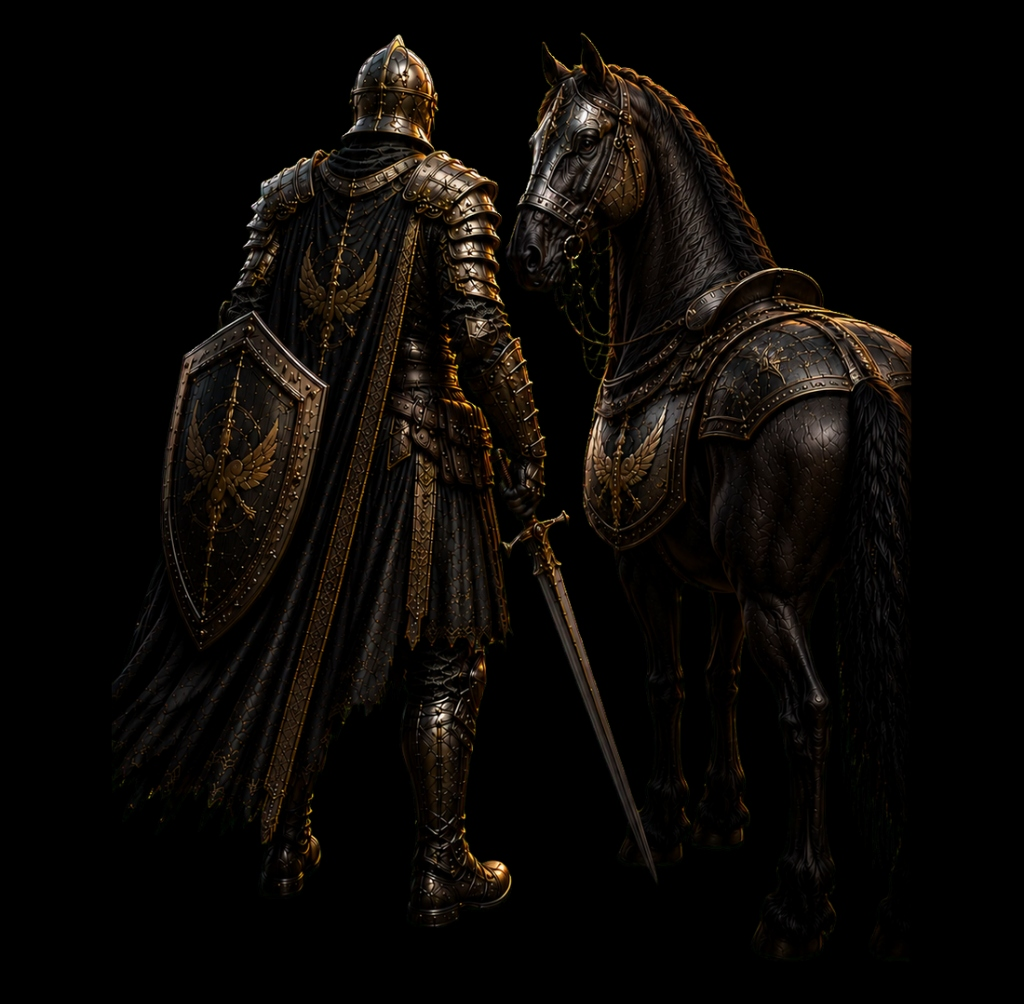
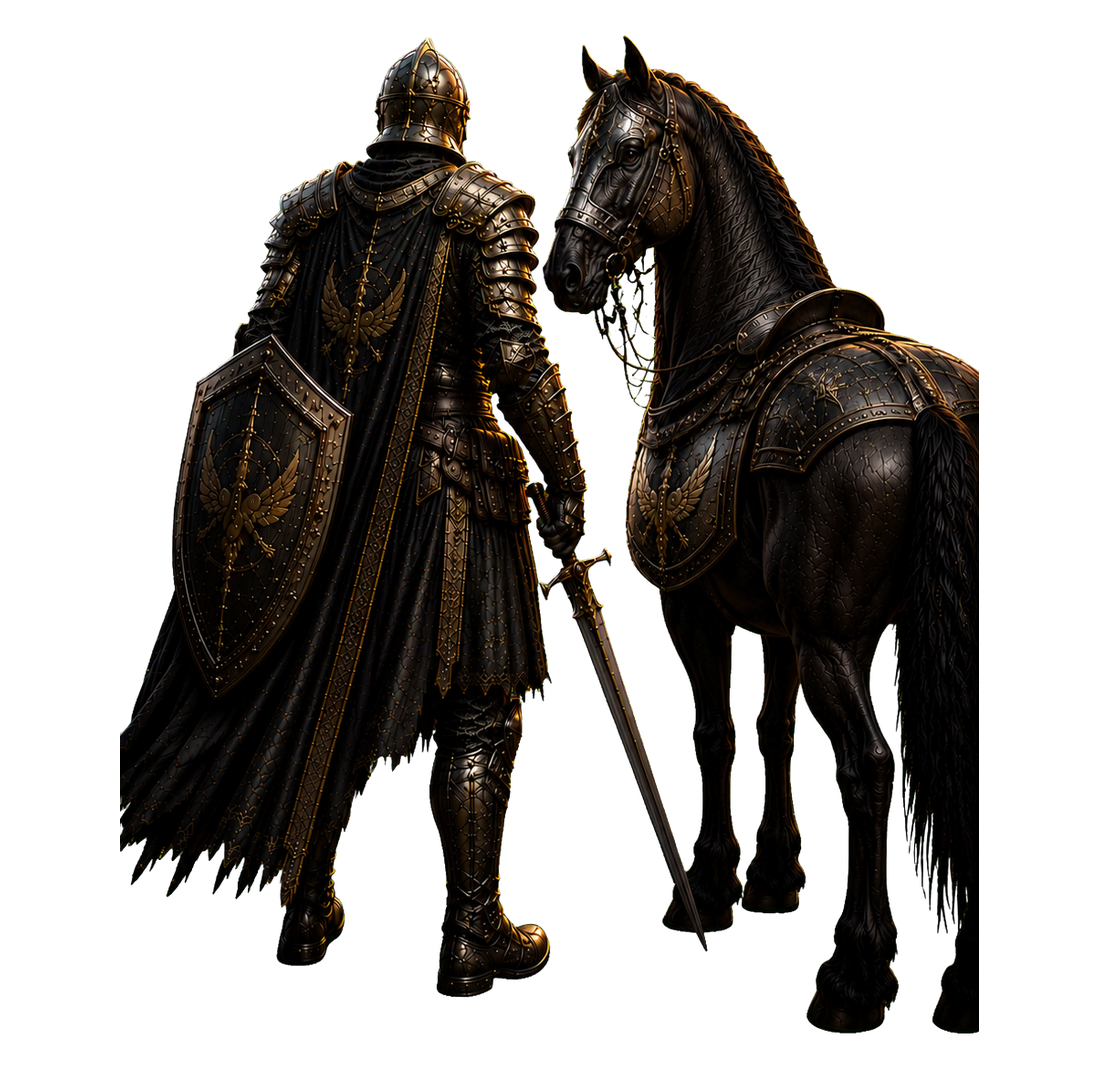
Fix stage images transparency and align bottom navigation bar (build 1.0.0+2)

diff --git a/lib/goals_page/goals_page_widget.dart b/lib/goals_page/goals_page_widget.dart
@@ -11,9 +11,10 @@ import 'package:cloud_firestore/cloud_firestore.dart';
 import 'package:flutter/material.dart';
 import 'package:google_fonts/google_fonts.dart';
 import 'package:provider/provider.dart';
-import 'goals_page_model.dart';
-import '/backend/habit_logger.dart';
 import '/backend/localization_manager.dart';
+import '/backend/habit_logger.dart';
+import '/components/pain_to_gain_bottom_nav_widget.dart';
+import 'goals_page_model.dart';
 export 'goals_page_model.dart';
 
 class GoalsPageWidget extends StatefulWidget {
@@ -242,171 +243,11 @@ class _GoalsPageWidgetState extends State<GoalsPageWidget> {
                 // Bottom Navigation
                 Align(
                   alignment: AlignmentDirectional(0.0, 1.0),
-                  child: Padding(
-                    padding: EdgeInsetsDirectional.fromSTEB(6.0, 4.0, 6.0, 0.0),
-                    child: Container(
-                      width: double.infinity,
-                      height: 70.0,
-                      decoration: BoxDecoration(),
-                      child: Container(
-                        width: double.infinity,
-                        height: double.infinity,
-                        child: Stack(
-                          children: [
-                            ClipRRect(
-                              borderRadius: BorderRadius.circular(8.0),
-                              child: Image.asset(
-                                'assets/images/paintogain_nav_1_clean.png',
-                                width: double.infinity,
-                                height: double.infinity,
-                                fit: BoxFit.fill,
-                              ),
-                            ),
-                            Positioned.fill(
-                              child: Row(
-                                mainAxisSize: MainAxisSize.max,
-                                children: [
-                                  Expanded(
-                                    child: InkWell(
-                                      splashColor: Colors.transparent,
-                                      highlightColor: Colors.transparent,
-                                      onTap: () async {
-                                        context.goNamed(HomePageWidget.routeName);
-                                      },
-                                      child: Column(
-                                        mainAxisAlignment: MainAxisAlignment.end,
-                                        children: [
-                                          Text(
-                                            LocalizationManager.instance.t('nav_home'),
-                                            textAlign: TextAlign.center,
-                                            maxLines: 1,
-                                            overflow: TextOverflow.ellipsis,
-                                            style: GoogleFonts.inter(
-                                              color: Color(0x88F2EFE9),
-                                              fontSize: 10.0,
-                                              fontWeight: FontWeight.bold,
-                                              letterSpacing: 0.5,
-                                            ),
-                                          ),
-                                          SizedBox(height: 10.0),
-                                        ],
-                                      ),
-                                    ),
-                                  ),
-                                  Expanded(
-                                    child: InkWell(
-                                      splashColor: Colors.transparent,
-                                      highlightColor: Colors.transparent,
-                                      onTap: () async {
-                                        context.goNamed(GoalsPageWidget.routeName);
-                                      },
-                                      child: Column(
-                                        mainAxisAlignment: MainAxisAlignment.end,
-                                        children: [
-                                          Text(
-                                            LocalizationManager.instance.t('nav_goals'),
-                                            textAlign: TextAlign.center,
-                                            maxLines: 1,
-                                            overflow: TextOverflow.ellipsis,
-                                            style: GoogleFonts.inter(
-                                              color: Color(0xFFA68255),
-                                              fontSize: 10.0,
-                                              fontWeight: FontWeight.bold,
-                                              letterSpacing: 0.5,
-                                            ),
-                                          ),
-                                          SizedBox(height: 10.0),
-                                        ],
-                                      ),
-                                    ),
-                                  ),
-                                  Expanded(
-                                    child: InkWell(
-                                      splashColor: Colors.transparent,
-                                      highlightColor: Colors.transparent,
-                                      onTap: () async {
-                                        context.goNamed(StatisticsPageWidget.routeName);
-                                      },
-                                      child: Column(
-                                        mainAxisAlignment: MainAxisAlignment.end,
-                                        children: [
-                                          Text(
-                                            LocalizationManager.instance.t('nav_stats'),
-                                            textAlign: TextAlign.center,
-                                            maxLines: 1,
-                                            overflow: TextOverflow.ellipsis,
-                                            style: GoogleFonts.inter(
-                                              color: Color(0x88F2EFE9),
-                                              fontSize: 10.0,
-                                              fontWeight: FontWeight.bold,
-                                              letterSpacing: 0.5,
-                                            ),
-                                          ),
-                                          SizedBox(height: 10.0),
-                                        ],
-                                      ),
-                                    ),
-                                  ),
-                                  Expanded(
-                                    child: InkWell(
-                                      splashColor: Colors.transparent,
-                                      highlightColor: Colors.transparent,
-                                      onTap: () async {
-                                        context.pushNamed(JourneyPageWidget.routeName);
-                                      },
-                                      child: Column(
-                                        mainAxisAlignment: MainAxisAlignment.end,
-                                        children: [
-                                          Text(
-                                            LocalizationManager.instance.t('nav_journey'),
-                                            textAlign: TextAlign.center,
-                                            maxLines: 1,
-                                            overflow: TextOverflow.ellipsis,
-                                            style: GoogleFonts.inter(
-                                              color: Color(0x88F2EFE9),
-                                              fontSize: 10.0,
-                                              fontWeight: FontWeight.bold,
-                                              letterSpacing: 0.5,
-                                            ),
-                                          ),
-                                          SizedBox(height: 10.0),
-                                        ],
-                                      ),
-                                    ),
-                                  ),
-                                  Expanded(
-                                    child: InkWell(
-                                      splashColor: Colors.transparent,
-                                      highlightColor: Colors.transparent,
-                                      onTap: () async {
-                                        context.goNamed(SettingsPageWidget.routeName);
-                                      },
-                                      child: Column(
-                                        mainAxisAlignment: MainAxisAlignment.end,
-                                        children: [
-                                          Text(
-                                            LocalizationManager.instance.t('nav_settings'),
-                                            textAlign: TextAlign.center,
-                                            maxLines: 1,
-                                            overflow: TextOverflow.ellipsis,
-                                            style: GoogleFonts.inter(
-                                              color: Color(0x88F2EFE9),
-                                              fontSize: 10.0,
-                                              fontWeight: FontWeight.bold,
-                                              letterSpacing: 0.5,
-                                            ),
-                                          ),
-                                          SizedBox(height: 10.0),
-                                        ],
-                                      ),
-                                    ),
-                                  ),
-                                ],
-                              ),
-                            ),
-                          ],
-                        ),
-                      ),
+                  child: wrapWithModel(
+                    model: _model.painToGainBottomNavModel,
+                    updateCallback: () => safeSetState(() {}),
+                    child: PainToGainBottomNavWidget(
+                      activeTab: 1,
                     ),
                   ),
                 ),

diff --git a/lib/components/pain_to_gain_bottom_nav_widget.dart b/lib/components/pain_to_gain_bottom_nav_widget.dart
@@ -66,7 +66,7 @@ class _PainToGainBottomNavWidgetState extends State<PainToGainBottomNavWidget> {
                     'assets/images/paintogain_nav_0_clean.png',
                     width: double.infinity,
                     height: double.infinity,
-                    fit: BoxFit.cover,
+                    fit: BoxFit.fill,
                   ),
                 ),
               if (widget!.activeTab == 1)
@@ -76,7 +76,7 @@ class _PainToGainBottomNavWidgetState extends State<PainToGainBottomNavWidget> {
                     'assets/images/paintogain_nav_1_clean.png',
                     width: double.infinity,
                     height: double.infinity,
-                    fit: BoxFit.cover,
+                    fit: BoxFit.fill,
                   ),
                 ),
               if (widget!.activeTab == 2)
@@ -86,7 +86,7 @@ class _PainToGainBottomNavWidgetState extends State<PainToGainBottomNavWidget> {
                     'assets/images/paintogain_nav_2_clean.png',
                     width: double.infinity,
                     height: double.infinity,
-                    fit: BoxFit.cover,
+                    fit: BoxFit.fill,
                   ),
                 ),
               if (widget!.activeTab == 3)
@@ -96,7 +96,7 @@ class _PainToGainBottomNavWidgetState extends State<PainToGainBottomNavWidget> {
                     'assets/images/paintogain_nav_3_clean.png',
                     width: double.infinity,
                     height: double.infinity,
-                    fit: BoxFit.cover,
+                    fit: BoxFit.fill,
                   ),
                 ),
               if (widget!.activeTab == 4)
@@ -106,7 +106,7 @@ class _PainToGainBottomNavWidgetState extends State<PainToGainBottomNavWidget> {
                     'assets/images/paintogain_nav_4_clean.png',
                     width: double.infinity,
                     height: double.infinity,
-                    fit: BoxFit.cover,
+                    fit: BoxFit.fill,
                   ),
                 ),
               // Full-height tap areas + localized labels
@@ -204,7 +204,7 @@ class _PainToGainBottomNavWidgetState extends State<PainToGainBottomNavWidget> {
                         highlightColor: Colors.transparent,
                         onTap: () async {
                           AdManager.showInterstitialAdIfAppropriate();
-                          context.pushNamed(JourneyPageWidget.routeName);
+                          context.goNamed(JourneyPageWidget.routeName);
                         },
                         child: Column(
                           mainAxisAlignment: MainAxisAlignment.end,

diff --git a/lib/home_page/home_page_widget.dart b/lib/home_page/home_page_widget.dart
@@ -884,25 +884,18 @@ class _HomePageWidgetState extends State<HomePageWidget> {
                           ),
                         ),
                       ),
-                      wrapWithModel(
-                        model: _model.painToGainBottomNavModel,
-                        updateCallback: () => safeSetState(() {}),
-                        child: PainToGainBottomNavWidget(
-                          activeTab: 0,
-                        ),
-                      ),
-                      if (_isBannerAdLoaded && _bannerAd != null && currentUserDocument?.isPremium != true)
-                        Container(
-                          width: double.infinity,
-                          height: _bannerAd!.size.height.toDouble(),
-                          alignment: Alignment.center,
-                          child: Container(
-                            width: _bannerAd!.size.width.toDouble(),
-                            height: _bannerAd!.size.height.toDouble(),
-                            child: AdWidget(ad: _bannerAd!),
-                          ),
-                        ),
+                      SizedBox(height: 90.0),
                     ],
+                  ),
+                ),
+              ),
+              Align(
+                alignment: AlignmentDirectional(0.0, 1.0),
+                child: wrapWithModel(
+                  model: _model.painToGainBottomNavModel,
+                  updateCallback: () => safeSetState(() {}),
+                  child: PainToGainBottomNavWidget(
+                    activeTab: 0,
                   ),
                 ),
               ),

diff --git a/lib/goals_page/goals_page_model.dart b/lib/goals_page/goals_page_model.dart
@@ -7,6 +7,7 @@ import '/flutter_flow/flutter_flow_widgets.dart';
 import '/flutter_flow/form_field_controller.dart';
 import 'dart:ui';
 import '/index.dart';
+import '/components/pain_to_gain_bottom_nav_widget.dart';
 import 'goals_page_widget.dart' show GoalsPageWidget;
 import 'package:cloud_firestore/cloud_firestore.dart';
 import 'package:flutter/material.dart';
@@ -26,6 +27,8 @@ class GoalsPageModel extends FlutterFlowModel<GoalsPageWidget> {
 
   ///  State fields for stateful widgets in this page.
 
+  late PainToGainBottomNavModel painToGainBottomNavModel;
+
   // State field(s) for TextField widget.
   FocusNode? textFieldFocusNode1;
   TextEditingController? textController1;
@@ -41,10 +44,13 @@ class GoalsPageModel extends FlutterFlowModel<GoalsPageWidget> {
   bool? switchValue;
 
   @override
-  void initState(BuildContext context) {}
+  void initState(BuildContext context) {
+    painToGainBottomNavModel = createModel(context, () => PainToGainBottomNavModel());
+  }
 
   @override
   void dispose() {
+    painToGainBottomNavModel.dispose();
     textFieldFocusNode1?.dispose();
     textController1?.dispose();
 

diff --git a/lib/journey_page/journey_page_widget.dart b/lib/journey_page/journey_page_widget.dart
@@ -330,15 +330,11 @@ class _JourneyPageWidgetState extends State<JourneyPageWidget> {
                     ),
                     Align(
                       alignment: AlignmentDirectional(0.0, 1.0),
-                      child: Padding(
-                        padding:
-                            EdgeInsetsDirectional.fromSTEB(6.0, 4.0, 6.0, 0.0),
-                        child: wrapWithModel(
-                          model: _model.painToGainBottomNavModel,
-                          updateCallback: () => safeSetState(() {}),
-                          child: PainToGainBottomNavWidget(
-                            activeTab: 3,
-                          ),
+                      child: wrapWithModel(
+                        model: _model.painToGainBottomNavModel,
+                        updateCallback: () => safeSetState(() {}),
+                        child: PainToGainBottomNavWidget(
+                          activeTab: 3,
                         ),
                       ),
                     ),
